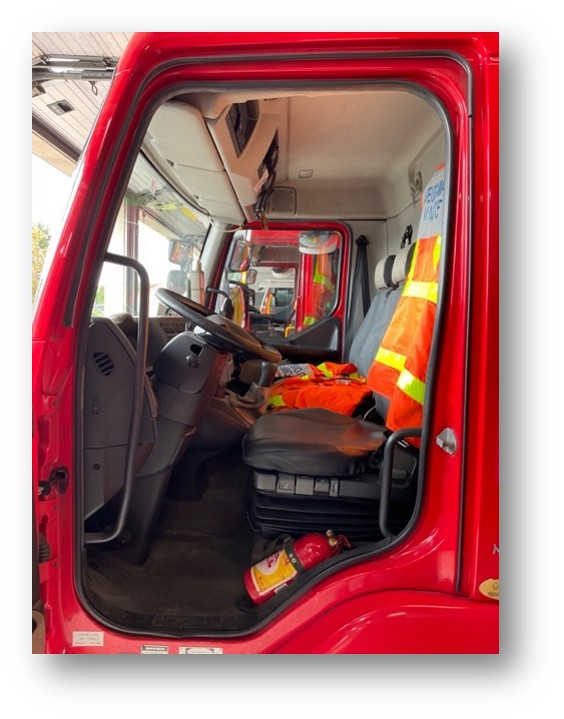
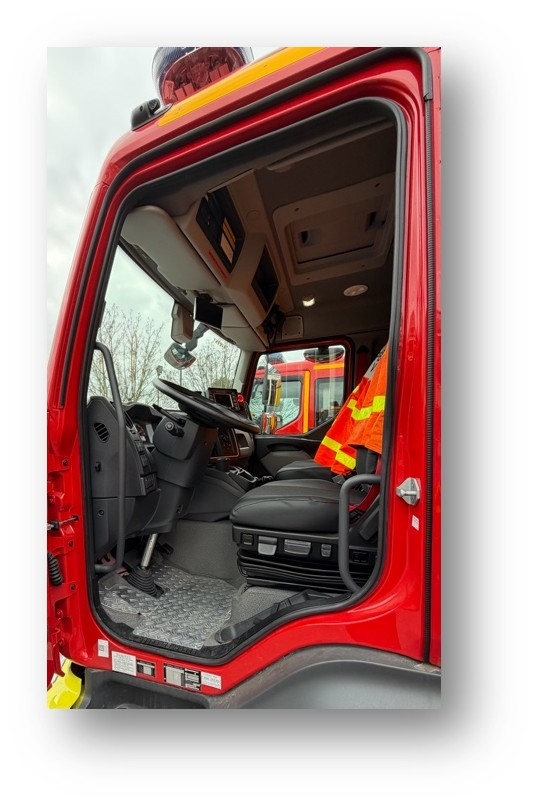
AJOUT FEUILLE VSRM

diff --git a/CAVSR.html b/CAVSR.html
@@ -135,75 +135,57 @@ footer {
 
 <fieldset>
   <legend>CABINE</legend>
-  <div class="image-container"><img src="images/Cabinevsrca.jpg" alt="Cabine VSR"></div>
+  <div class="image-container"><img src="images/VSRCA.jpg" alt="Cabine VSR"></div>
     
-  <label><input type="checkbox" id="1 TPH">1 TPH</label>
-  <label><input type="checkbox" id="1 RADIO">1 RADIO</label>
-  <label><input type="checkbox" id="1 Sacoche C/A">1 Sacoche C/A</label>
-  <label><input type="checkbox" id="1 mini lampe de poche LED">1 mini lampe de poche LED</label>
-  <label><input type="checkbox" id="1 Crochet de dépose-garniture">1 Crochet de dépose-garniture</label>
-  <label><input type="checkbox" id="1 Griffe de dépose-garniture">1 Griffe de dépose-garniture</label>
-  <label><input type="checkbox" id="1 Pince universelle">1 Pince universelle</label>
-  <label><input type="checkbox" id="1 Dégonfle-pneu">1 Dégonfle-pneu</label>
-  <label><input type="checkbox" id="1 Mètre à ruban">1 Mètre à ruban</label>
-  <label><input type="checkbox" id="1 Brise-vitre">1 Brise-vitre</label>
-  <label><input type="checkbox" id="1 Coupe ceinture">1 Coupe ceinture</label>
-  <label><input type="checkbox" id="2 Marqueurs">2 Marqueurs</label>
-  <label><input type="checkbox" id="1 Craie">1 Craie</label>
-  <label><input type="checkbox" id="Jeu d’outils">Jeu d’outils</label>
-  <label><input type="checkbox" id="1 Fiche de rappel des statuts">1 Fiche de rappel des statuts</label>
-  <label><input type="checkbox" id="1 Tablette VSR">1 Tablette VSR</label>
-  <label><input type="checkbox" id="1 Projecteur NightSearcher">1 Projecteur NightSearcher</label>
-  <label><input type="checkbox" id="1 Fiche d’aide à la signalisation d’urgence">1 Fiche d’aide à la signalisation d’urgence</label>
-  <label><input type="checkbox" id="3 GHV Secours Routier">3 GHV Secours Routier</label>
+  <label><input type="checkbox" id="3 GHV Secours Routier ">3 GHV Secours Routier </label>
   <label><input type="checkbox" id="1 Commande en sac">1 Commande en sac</label>
-  <label><input type="checkbox" id="2 Lampes de casque">2 Lampes de casque</label>
-  <label><input type="checkbox" id="1 Outil de forcement et de déblai">1 Outil de forcement et de déblai</label>
-  <label><input type="checkbox" id="1 Petite pince">1 Petite pince</label>
-  <label><input type="checkbox" id="3 Masques FFP2 + Tricoise">3 Masques FFP2 + Tricoise</label>
-  <label><input type="checkbox" id="1 Jeton de présence">1 Jeton de présence</label>
-  <label><input type="checkbox" id="1 Notice boitier « FRANCLAIR Signalisation »">1 Notice boitier « FRANCLAIR Signalisation »</label>
-  <label><input type="checkbox" id="1 Dossier avec :">1 Dossier avec :</label>
-  <label><input type="checkbox" id="Fiche caractère privée"> Fiche caractère privée</label>
-  <label><input type="checkbox" id="Avis de passage"> Avis de passage</label>
-  <label><input type="checkbox" id="Constat de dégâ"> Constat de dégât</label>
-  <label><input type="checkbox" id="Décharge"> Décharge</label>
-  <label><input type="checkbox" id="1 Rhinoevac">1 Rhinoevac</label>
-  <label><input type="checkbox" id="1 Projecteur ADALIT 5000">1 Projecteur ADALIT 5000</label>
-</fieldset>
+  <label><input type="checkbox" id="3 Lampes de casque">3 Lampes de casque</label>
+  <label><input type="checkbox" id="1 Outil de forcement et de déblai (OFD)">1 Outil de forcement et de déblai (OFD) </label>
+  <label><input type="checkbox" id="1 Petite pince ">1 Petite pince </label>
+  <label><input type="checkbox" id="Masques FFP2 + tricoise ">Masques FFP2 + tricoise </label>
+  <label><input type="checkbox" id="1 Jeton de présence ">1 Jeton de présence </label>
+  <label><input type="checkbox" id="1 Dossier avec : Fiche caractère privée / Avis de passage / Constat de dégât / Décharge">1 Dossier avec : Fiche caractère privée / Avis de passage / Constat de dégât / Décharge</label>
+  <label><input type="checkbox" id="2 Projecteurs ADALIT 5000 Jaune">2 Projecteurs ADALIT 5000 Jaune</label>
+  <label><input type="checkbox" id="3 Casques F2 (1 jaune et 2 rouges) ">3 Casques F2 (1 jaune et 2 rouges) </label>
+  <label><input type="checkbox" id="1 TPH900 + harnais ">1 TPH900 + harnais </label>
+  <label><input type="checkbox" id="1 BER ">1 BER </label>
+  <label><input type="checkbox" id="1 Fiche de rappel des statuts">1 Fiche de rappel des statuts</label>
+  <label><input type="checkbox" id="1 Tablette VSR ">1 Tablette VSR </label>
+  <label><input type="checkbox" id="1 Fiche d’aide à la signalisation d’urgence">1 Fiche d’aide à la signalisation d’urgence</label>
+  </fieldset>
 
 <fieldset>
   <legend>COFFRE AVANT DROIT</legend>
   <div class="image-container"><img src="images/CoffreavdVSR.jpg" alt="Coffre AV droit"></div>
-  <label><input type="checkbox" id="2 Cales escalier (BXC1)">2 Cales escalier (BXC1)</label>
-  <label><input type="checkbox" id="2 Cales tiroir avec cordelette (BXC4)">2 Cales tiroir avec cordelette (BXC4)</label>
-  <label><input type="checkbox" id="1 Pioche et son manche">1 Pioche et son manche</label>
-  <label><input type="checkbox" id="1 Masse">1 Masse</label>
-  <label><input type="checkbox" id="2 Balais de cantonnier">2 Balais de cantonnier</label>
-  <label><input type="checkbox" id="1 Pelle">1 Pelle</label>
-  <label><input type="checkbox" id="1 Grande pince">1 Grande pince</label>
-  <label><input type="checkbox" id="1 Coupe boulon">1 Coupe boulon</label>
-  <label><input type="checkbox" id="1 Haligan TOOL">1 Haligan TOOL</label>
-  <label><input type="checkbox" id="1 Plateforme PL">1 Plateforme PL</label>
-  <label><input type="checkbox" id="1 Caisse N°11 avec :">1 Caisse N°11 avec :</label>
-  <label><input type="checkbox" id="8 Cales Coin"> 8 Cales Coin</label>
-  <label><input type="checkbox" id="6 Cales carré"> 6 Cales carré</label>
-  <label><input type="checkbox" id="1 Coupe pare-brise manuel">1 Coupe pare-brise manuel</label>
-  <label><input type="checkbox" id="1 Batterie supplémentaire pour outil électroportatif">1 Batterie supplémentaire pour outil électroportatif</label>
-  <label><input type="checkbox" id="1 Écarteur électroportatif + batterie">1 Écarteur électroportatif + batterie</label>
-  <label><input type="checkbox" id="1 Cisaille électroportatif">1 Cisaille électroportatif</label>
-  <label><input type="checkbox" id="1 Valise avec boulonneuse portative + accessoires">1 Valise avec boulonneuse portative + accessoires</label>
-  <label><input type="checkbox" id="1 Valise Orange avec 2 étais à cliquet + 1 couteau coupe tôle HOLMATRO">1 Valise Orange avec 2 étais à cliquet + 1 couteau coupe tôle HOLMATRO</label>
-  <label><input type="checkbox" id="1 Chariot de transport">1 Chariot de transport</label>
-  <label><input type="checkbox" id="1 Sacoche avec 2 boucliers + 1 Couverture de désincarcération">1 Sacoche avec 2 boucliers + 1 Couverture de désincarcération</label>
+  <fieldset>
+		<legend>CHARRIOT AMOVIBLE</legend>
+		<label><input type="checkbox" id="1 Vérin électroportatif 117cm + batterie">1 Vérin électroportatif 117cm + batterie</label>
+		<label><input type="checkbox" id="1 Vérin électroportatif 91cm + batterie">1 Vérin électroportatif 91cm + batterie</label>
+		<label><input type="checkbox" id="2 Supports appui-vérins (Sabots)">2 Supports appui-vérins (Sabots)</label>
+		<label><input type="checkbox" id="1 Écarteur électroportatif + batterie">1 Écarteur électroportatif + batterie</label>
+		<label><input type="checkbox" id="1 Cisaille électroportatif + batterie">1 Cisaille électroportatif + batterie</label>
+		<label><input type="checkbox" id="1 Coupe pare-brise manuel">1 Coupe pare-brise manuel</label>
+		<label><input type="checkbox" id="2 Cales CROSS RAMING">2 Cales CROSS RAMING</label>
+		<label><input type="checkbox" id="2 boites d’outils">2 boites d’outils</label>
+    </fieldset>
+	<label><input type="checkbox" id="Valise BEMAEX : 1 protection airbag PL / 1 Protection airbag VL / 2 Craies / 2 Sangles ROPE RATCHET / 1 Rouleau de rubalise">Valise BEMAEX : 1 protection airbag PL / 1 Protection airbag VL / 2 Craies / 2 Sangles ROPE RATCHET / 1 Rouleau de rubalise</label>
+	<label><input type="checkbox" id="Caisse n°13 : 3 visières casque F2 + 1 Sacoche C/A (1 mini lampe de poche LED/ 1 Crochet de dépose-garniture / 1 Griffe de dépose-garniture / 1 Pince universelle / 1 Dégonfle-pneu / 1 Mètre à ruban / 1 Brise-vitre / 1 Coupe ceinture / 2 Marqueur / 1 Craie / Jeu outils)">Caisse n°13 : 3 visières casque F2 + 1 Sacoche C/A (1 mini lampe de poche LED/ 1 Crochet de dépose-garniture / 1 Griffe de dépose-garniture / 1 Pince universelle / 1 Dégonfle-pneu / 1 Mètre à ruban / 1 Brise-vitre / 1 Coupe ceinture / 2 Marqueur / 1 Craie / Jeu outils)</label>
+	<label><input type="checkbox" id="Caisse n°14 : 1 Sac protections de découpe rouge BEMAEX + protections bouts de tuyaux">Caisse n°14 : 1 Sac protections de découpe rouge BEMAEX + protections bouts de tuyaux</label>
+	<label><input type="checkbox" id="Caisse n°15 : 1 Sacoche avec 2 boucliers + 1 Couverture de désincarcération">Caisse n°15 : 1 Sacoche avec 2 boucliers + 1 Couverture de désincarcération</label>
+	<label><input type="checkbox" id="1 Projecteur Adalit 5000 noir">1 Projecteur Adalit 5000 noir</label>
 </fieldset>
 
 <fieldset>
-  <legend>COFFRE AVANT GAUCHE</legend>
-  <div class="image-container"><img src="images/CoffreavgVSR.jpg" alt="Coffre AV gauche"></div>
-  <label><input type="checkbox" id="1 Vérin électroportatif 117cm + batterie">1 Vérin électroportatif 117cm + batterie</label>
-  <label><input type="checkbox" id="1 Vérin électroportatif 91cm + batterie">1 Vérin électroportatif 91cm + batterie</label>
-  <label><input type="checkbox" id="2 support appui-vérins (sabots)">2 support appui-vérins (sabots)</label>
+  <legend>COFFRE MILIEU DROIT</legend>
+  <div class="image-container"><img src="images/coffremilieudroitVSR.jpg" alt="Coffre milieu droit "></div>
+  <label><input type="checkbox" id="1 Haligan TOOL">1 Haligan TOOL</label>
+<label><input type="checkbox" id="1 Masse">1 Masse</label>
+<label><input type="checkbox" id="1 Valise Orange avec 2 étais à cliquet + 1 couteau coupe tôle HOLMATRO">1 Valise Orange avec 2 étais à cliquet + 1 couteau coupe tôle HOLMATRO</label>
+<label><input type="checkbox" id="2 Cales escalier (BXC1)">2 Cales escalier (BXC1)</label>
+<label><input type="checkbox" id="2 Cales tiroir avec cordelette (BXC4)">2 Cales tiroir avec cordelette (BXC4)</label>
+<label><input type="checkbox" id="1 Caisse n°12 : 8 Cales Coin / 6 Cales carré">1 Caisse n°12 : 8 Cales Coin / 6 Cales carré</label>
+<label><input type="checkbox" id="Caisse n°11 : Jeu de bastings">Caisse n°11 : Jeu de bastings</label>
+<label><input type="checkbox" id="2 Supports projecteurs">2 Supports projecteurs</label>
 </fieldset>
 
 

diff --git a/COVSR.html b/COVSR.html
@@ -203,46 +203,59 @@ footer {
   <fieldset>
   <legend>CABINE</legend>
   <img src="images/CabineCOVSR.jpg" />
-  <label><input type="checkbox" id="1 Extincteur poudre 2KG">1 Extincteur poudre 2KG</label>
-  <label><input type="checkbox" id="1 Pochette Bleue avec : Constat amiable / Carte grise / Carte d’assurance">1 Pochette Bleue avec : Constat amiable / Carte grise / Carte d’assurance</label>
-  <label><input type="checkbox" id="Lot démonte roue (Côté CA)">Lot démonte roue (Côté CA)</label>
+    <label><input type="checkbox" id="1 Pochette Bleue avec : Constat amiable / Carte grise / Carte d’assurance">1 Pochette Bleue avec : Constat amiable / Carte grise / Carte d’assurance</label>
+  <label><input type="checkbox" id="1 Projecteur amovible ">1 Projecteur amovible </label>
 </fieldset>
+
+<fieldset>
+  <legend>COFFRE AVANT GAUCHE</legend>
+  <img src="images/CoffreavdGVSR.jpg" />
+  <label><input type="checkbox" id="2 Cales de roues">2 Cales de roues</label>
+  <label><input type="checkbox" id="1 Valise scie sabre + Lames de rechange + Masques FFP2 + 2 Batteries">1 Valise scie sabre + Lames de rechange + Masques FFP2 + 2 Batteries</label>
+  <label><input type="checkbox" id="1 Valise avec boulonneuse portative + accessoires  ">1 Valise avec boulonneuse portative + accessoires  </label>
+  <label><input type="checkbox" id="2 Chargeur MILWAUKEE + 1 batterie ">2 Chargeur MILWAUKEE + 1 batterie </label>
+  <label><input type="checkbox" id="1 Chargeur MAKITA ">1 Chargeur MAKITA </label>
+ </fieldset>
+
+<fieldset>
+  <legend>COFFRE MILIEUX GAUCHE</legend>
+  <img src="images/CoffremilieuxGVSR.jpg" />
+ <label><input type="checkbox" id="2 ARI complet + 2 Masques ARI + 2 Cagoules">2 ARI complet + 2 Masques ARI + 2 Cagoules</label>
+<label><input type="checkbox" id="2 Bouteilles ARI de réserve">2 Bouteilles ARI de réserve</label>
+<label><input type="checkbox" id="1 Échelle télescopique">1 Échelle télescopique</label>
+<label><input type="checkbox" id="Caisse n°3 : Chaine colonne de direction">Caisse n°3 : Chaine colonne de direction</label>
+<label><input type="checkbox" id="Caisse n°4 : 1 cric / 1 lot démonte roue + levage cabine / 1 manomètre + flexible">Caisse n°4 : 1 cric / 1 lot démonte roue + levage cabine / 1 manomètre + flexible</label>
+<label><input type="checkbox" id="Caisse n°5 : Kit désinfection incendie + bouteilles d’eau">Caisse n°5 : Kit désinfection incendie + bouteilles d’eau</label>
+<label><input type="checkbox" id="Caisse n°6 : Jeu de bastings">Caisse n°6 : Jeu de bastings</label>
+<label><input type="checkbox" id="Caisse n°7 : Jeu de bastings + massette">Caisse n°7 : Jeu de bastings + massette</label>
+<label><input type="checkbox" id="8 Rallonges 220V/2000W sur touret de 25m">8 Rallonges 220V/2000W sur touret de 25m</label>
+<label><input type="checkbox" id="2 Étais">2 Étais</label>
+<label><input type="checkbox" id="2 Fiches d’ancrage">2 Fiches d’ancrage</label>
+<label><input type="checkbox" id="1 Support projecteur Baby">1 Support projecteur Baby</label> </fieldset>
 
 <fieldset>
   <legend>COFFRE ARRIERE GAUCHE</legend>
-  <img src="images/CoffreargVSR.jpg" />
-  <label><input type="checkbox" id="2 Cales de roues">2 Cales de roues</label>
-  <label><input type="checkbox" id="1 Lot de chaînes à neige">1 Lot de chaînes à neige</label>
-  <label><input type="checkbox" id="1 Cric">1 Cric</label>
-  <label><input type="checkbox" id="1 Caisse N°5 avec : 1 TIRFOR TU16 / 1 Poulie / 1 Levier de manœuvre / 6 Manilles / 1 Câble de 15m / 3 Élingues textiles 4T">1 Caisse N°5 avec : 1 TIRFOR TU16 / 1 Poulie / 1 Levier de manœuvre / 6 Manilles / 1 Câble de 15m / 3 Élingues textiles 4T</label>
-  <label><input type="checkbox" id="2 ARI 300b">2 ARI 300b</label>
-  <label><input type="checkbox" id="2 Masques ARI + 2 Cagoules">2 Masques ARI + 2 Cagoules</label>
-  <label><input type="checkbox" id="2 Bouteilles ARI de réserve">2 Bouteilles ARI de réserve</label>
+  <img src="images/CoffreardGVSR.jpg" />
   <label><input type="checkbox" id="6 Extincteurs poudre de 9kg">6 Extincteurs poudre de 9kg</label>
-  <label><input type="checkbox" id="Bouteille d’eau">Bouteille d’eau</label>
-  <label><input type="checkbox" id="1 Sac PS">1 Sac PS</label>
-  <label><input type="checkbox" id="1 Caisse N°3 avec : 1 Couverture anti-feu / 1 Paire de gants isolants électriques / 2 Sangles à cliquet PL">1 Caisse N°3 avec : 1 Couverture anti-feu / 1 Paire de gants isolants électriques / 2 Sangles à cliquet PL</label>
-  <label><input type="checkbox" id="1 Caisse N°4 avec : 1 Clé de poteau / 1 Tuyau Ø45/20m / 1 Tricoise / 1 Raccord de réduction 65/40">1 Caisse N°4 avec : 1 Clé de poteau / 1 Tuyau Ø45/20m / 1 Tricoise / 1 Raccord de réduction 65/40</label>
-</fieldset>
-
-<fieldset>
-  <legend>COFFRE ARRIERE DROIT</legend>
-  <img src="images/CoffreardVSR.jpg" />
-  <label><input type="checkbox" id="1 Valise scie sabre + Lames de rechange + Masques FFP2 + 2 Batteries">1 Valise scie sabre + Lames de rechange + Masques FFP2 + 2 Batteries</label>
-  <label><input type="checkbox" id="1 Caisse N°6 avec : Cales en bois / 1 Massette">1 Caisse N°6 avec : Cales en bois / 1 Massette</label>
-  <label><input type="checkbox" id="1 Enrouleur câble de terre">1 Enrouleur câble de terre</label>
-  <label><input type="checkbox" id="1 Piquet de terre">1 Piquet de terre</label>
-  <label><input type="checkbox" id="Clé armoire génératrice">Clé armoire génératrice</label>
-  <label><input type="checkbox" id="1 Projecteur Baby">1 Projecteur Baby</label>
-  <label><input type="checkbox" id="1 Sacoche avec 3 visières pour casque F2">1 Sacoche avec 3 visières pour casque F2</label>
-  <label><input type="checkbox" id="1 Caisse N°8 avec : 2 Doubles projecteurs / 3 Casques F2">1 Caisse N°8 avec : 2 Doubles projecteurs / 3 Casques F2</label>
-  <label><input type="checkbox" id="2 Supports de projecteur">2 Supports de projecteur</label>
-  <label><input type="checkbox" id="1 Valise rouge avec : 1 protection airbag PL / 1 protection airbag VL / 2 Craies / 2 Sangles ROPE RATCHET / 1 Rouleau de rubalise">1 Valise rouge avec : 1 protection airbag PL / 1 protection airbag VL / 2 Craies / 2 Sangles ROPE RATCHET / 1 Rouleau de rubalise</label>
-  <label><input type="checkbox" id="8 Rallonges 220V/2000W sur touret de 25m">8 Rallonges 220V/2000W sur touret de 25m</label>
-  <label><input type="checkbox" id="1 Caisse N°9 avec : Cales en bois / 1 Massette">1 Caisse N°9 avec : Cales en bois / 1 Massette</label>
-  <label><input type="checkbox" id="2 Cales CROSS RAMING">2 Cales CROSS RAMING</label>
-</fieldset>
-
+  <label><input type="checkbox" id="1 Plateforme PL ">1 Plateforme PL </label>
+  <label><input type="checkbox" id="1 Projecteur amovible + trépied ">1 Projecteur amovible + trépied </label>
+ </fieldset>
+ 
+ <fieldset>
+  <legend>ARRIERE</legend>
+  <img src="images/arriereVSR.jpg" />
+  <label><input type="checkbox" id="2 Chariots avec chacun 6 cônes de LUBEC et 1 Tri flash ">2 Chariots avec chacun 6 cônes de LUBEC et 1 Tri flash </label>
+ </fieldset>
+ 
+ <fieldset>
+  <legend>COFFRE MILIEU DROIT</legend>
+  <img src="images/CoffremilieuxDVSR.jpg" />
+  <label><input type="checkbox" id="1 Piquet de terre + enrouleur">1 Piquet de terre + enrouleur</label>
+  <label><input type="checkbox" id="Clé armoire génératrice">Clé armoire génératrice </label>
+  <label><input type="checkbox" id="1 Projecteur Baby  ">1 Projecteur Baby  </label>
+  <label><input type="checkbox" id="1 Massette ">1 Massette </label>
+  <label><input type="checkbox" id="2 Couverture anti-feu  ">2 Couverture anti-feu  </label>
+ </fieldset>
 
 <div class="buttons">
   <button onclick="saveAndReturn()">Enregistrer et revenir au menu</button>

diff --git a/EQVSR.html b/EQVSR.html
@@ -137,31 +137,46 @@ footer {
 
 <fieldset>
   <legend>COFFRE AVANT GAUCHE</legend>
-  <div class="image-container"><img src="images/CoffreavgVSR.jpg" alt="Coffre avant gauche"></div>
-  <label><input type="checkbox" id="1 Caisse N°10 avec : 1 Cordage">1 Caisse N°10 avec : 1 Cordage</label>
-  <label><input type="checkbox" id="1 Échelle télescopique">1 Échelle télescopique</label>
-  <label><input type="checkbox" id="1 Sac protections de découpe rouge BEMAEX + protections bouts de tuyaux">1 Sac protections de découpe rouge BEMAEX + protections bouts de tuyaux</label>
-  <label><input type="checkbox" id="1 Kit chaîne pour colonne de direction">1 Kit chaîne pour colonne de direction</label>
-  <label><input type="checkbox" id="1 LSPCC (Vérification le samedi du contenu)">1 LSPCC (Vérification le samedi du contenu)</label>
-  <label><input type="checkbox" id="1 Caisse N°1 Lot de levage avec : 2 flexibles rouge et bleu de 10 m / 2 flexibles rouge et bleu de 2 m avec robinet / 1 Plaque Power Plate">1 Caisse N°1 Lot de levage avec : 2 flexibles rouge et bleu de 10 m / 2 flexibles rouge et bleu de 2 m avec robinet / 1 Plaque Power Plate</label>
-  <label><input type="checkbox" id="1 Caisse N°2 avec : 2 Rouleaux de rubalise / 1 régulateur de pression / 1 Contrôleur double / 1 clé / 1 prise fixation plaque Power Plate / 1 connecteur coussin / 1 Brosse">1 Caisse N°2 avec : 2 Rouleaux de rubalise / 1 régulateur de pression / 1 Contrôleur double / 1 clé / 1 prise fixation plaque Power Plate / 1 connecteur coussin / 1 Brosse</label>
-  <label><input type="checkbox" id="2 Cousins de levage + housses de transport">2 Cousins de levage + housses de transport</label>
-  <label><input type="checkbox" id="1 Plaque de protection en kevlar">1 Plaque de protection en kevlar</label>
-  <label><input type="checkbox" id="1 Caisse à outils plombée avec : Clés mixtes, Clés plates, Cutter, Clé à molette, Pinces, Cisaille, Massette, Burin, Scie à métaux, Tournevis, boîte à cliquets complète">1 Caisse à outils plombée avec : Clés mixtes, Clés plates, Cutter, Clé à molette, Pinces, Cisaille, Massette, Burin, Scie à métaux, Tournevis, boîte à cliquets complète</label>
+  <div class="image-container"><img src="images/CoffreavdGVSR.jpg" alt="Coffre avant gauche"></div>
+  <label><input type="checkbox" id="1 LSPCC (Vérification le samedi du contenue)">1 LSPCC (Vérification le samedi du contenue)</label>
+<label><input type="checkbox" id="1 Caisse N°1 : 1 Paires de gants isolant électrique / 2 Sangles à cliquet PL / 1 rouleau de rubalise / 2 sangles échelle / 1 serpillière">1 Caisse N°1 : 1 Paires de gants isolant électrique / 2 Sangles à cliquet PL / 1 rouleau de rubalise / 2 sangles échelle / 1 serpillière</label>
+<label><input type="checkbox" id="1 Caisse N°2 : 2 Flexibles rouge et bleu de 10 m / 2 flexibles rouge et bleu de 2m avec robinet /1 Plaque Power Plate / 1 régulateur de pression / 1 Contrôleur double / 1 clé / 1 prise fixation plaque Power Plate / 1 connecteur coussin / 1 Brosse">1 Caisse N°2 : 2 Flexibles rouge et bleu de 10 m / 2 flexibles rouge et bleu de 2m avec robinet /1 Plaque Power Plate / 1 régulateur de pression / 1 Contrôleur double / 1 clé / 1 prise fixation plaque Power Plate / 1 connecteur coussin / 1 Brosse</label>
+<label><input type="checkbox" id="2 Cousins de levage + housses de transport">2 Cousins de levage + housses de transport</label>
+<label><input type="checkbox" id="1 Plaque de protection en kevlar">1 Plaque de protection en kevlar</label>
+<label><input type="checkbox" id="1 Caisse à outils plombée : Clés mixtes (8, 9, 10, 11, 12, 13, 14, 15, 17, 19) / Clés plates (12/13, 14/15, 18/19, 22/24, 24/27) / 1 Cutter et 2 Lames / 1 Clé à molette 8’’ / 1 Pince multiprise petit modèle / 1 pince multiprise grand modèle / 1 Cisaille / 1 Massette / 1 Burin ciseau / 1 Scie à métaux + 1 lame / 1 Pince à bec / 1 Tournevis plats / 2 Tournevis cruciforme / 1 boite à cliquets complète">1 Caisse à outils plombée : Clés mixtes (8, 9, 10, 11, 12, 13, 14, 15, 17, 19) / Clés plates (12/13, 14/15, 18/19, 22/24, 24/27) / 1 Cutter et 2 Lames / 1 Clé à molette 8’’ / 1 Pince multiprise petit modèle / 1 pince multiprise grand modèle / 1 Cisaille / 1 Massette / 1 Burin ciseau / 1 Scie à métaux + 1 lame / 1 Pince à bec / 1 Tournevis plats / 2 Tournevis cruciforme / 1 boite à cliquets complète</label></fieldset>
+
+<fieldset>
+  <legend>COFFRE ARRIERE GAUCHE</legend>
+  <div class="image-container"><img src="images/CoffreardGVSR.jpg" alt="Coffre arrière"></div>
+<label><input type="checkbox" id="1 Caisse : 1 TIRFOR TU16 / 1 Poulie / 1 Levier de manœuvre / 6 Manilles / 1 Câbles de 15m / 3 Élingues textiles 4T">1 Caisse : 1 TIRFOR TU16 / 1 Poulie / 1 Levier de manœuvre / 6 Manilles / 1 Câbles de 15m / 3 Élingues textiles 4T</label>
+<label><input type="checkbox" id="1 Chariot de transport">1 Chariot de transport</label>
+<label><input type="checkbox" id="Caisse n°9 : Cordage">Caisse n°9 : Cordage</label>
 </fieldset>
 
 <fieldset>
-  <legend>COFFRE ARRIERE</legend>
-  <div class="image-container"><img src="images/CoffrearrVSR.jpg" alt="Coffre arrière"></div>
-  <label><input type="checkbox" id="2 Chariots avec chacun 6 cônes de LUBEC et 1 Tri flash">2 Chariots avec chacun 6 cônes de LUBEC et 1 Tri flash</label>
-  <label><input type="checkbox" id="2 Bastings">2 Bastings</label>
-  <label><input type="checkbox" id="2 Étais">2 Étais</label>
-  <label><input type="checkbox" id="2 Fiches d’ancrages">2 Fiches d’ancrages</label>
-  <label><input type="checkbox" id="1 Projecteur amovible">1 Projecteur amovible</label>
-  <label><input type="checkbox" id="6 Cônes de LUBEC">6 Cônes de LUBEC</label>
-  <label><input type="checkbox" id="1 Trépied pour projecteur Baby">1 Trépied pour projecteur Baby</label>
-  <label><input type="checkbox" id="6 Balises lumineuses Bleu">6 Balises lumineuses Bleu</label>
-</fieldset>
+  <legend>COFFRE ARRIERE DROIT</legend>
+  <div class="image-container"><img src="images/coffreardDVSR.jpg" alt="Coffre arrière"></div>
+<label><input type="checkbox" id="6 Cônes de LUBEC">6 Cônes de LUBEC</label>
+<label><input type="checkbox" id="6 Balises lumineuses Bleu">6 Balises lumineuses Bleu</label>
+<label><input type="checkbox" id="1 Sceau d’absorbant">1 Sceau d’absorbant</label>
+<label><input type="checkbox" id="1 Triflash">1 Triflash</label>
+<label><input type="checkbox" id="Caisse n°10 : 2 projecteurs">Caisse n°10 : 2 projecteurs</label></fieldset>
+
+<fieldset>
+  <legend>COFFRE AVANT DROIT</legend>
+  <div class="image-container"><img src="images/CoffreavdVSR.jpg" alt="Coffre avant droit "></div>
+<label><input type="checkbox" id="1 Pioche et son manche">1 Pioche et son manche</label>
+<label><input type="checkbox" id="2 Balais de cantonnier">2 Balais de cantonnier</label>
+<label><input type="checkbox" id="1 Pelle">1 Pelle</label>
+<label><input type="checkbox" id="1 Petite pince">1 Petite pince</label>
+<label><input type="checkbox" id="1 Grande pince">1 Grande pince</label>
+<label><input type="checkbox" id="1 Coupe boulon grand">1 Coupe boulon grand</label>
+<label><input type="checkbox" id="1 Coupe boulon petit">1 Coupe boulon petit</label>
+<label><input type="checkbox" id="1 Scie à métaux">1 Scie à métaux</label>
+<label><input type="checkbox" id="1 Scie à buche">1 Scie à buche</label>
+<label><input type="checkbox" id="1 Hachette">1 Hachette</label>
+<label><input type="checkbox" id="1 Jeu de bastings">1 Jeu de bastings</label>
+<label><input type="checkbox" id="1 Sac PS">1 Sac PS </label></fieldset>
 
 <div class="buttons">
   <button onclick="saveAndReturn()">Enregistrer et revenir au menu</button>

diff --git a/index.html b/index.html
@@ -124,7 +124,7 @@ document.getElementById('date').textContent = new Date().toLocaleDateString('fr-
 <table>
 <thead><tr><th>Section</th><th>Détails</th></tr></thead>
 <tbody>
-<tr><td>Version</td><td>2.1 – Mars 2026</td></tr>
+<tr><td>Version</td><td>2.2 – Mars 2026</td></tr>
 <tr><td>Usage</td><td>Vérification quotidienne des véhicules et postes</td></tr>
 <tr><td>Contact</td><td>CIS Taverny – SGT COLIN Louis et Bureau OPS</td></tr>
 </tbody>

diff --git a/FPT.html b/FPT.html
@@ -77,7 +77,7 @@ button i { font-size:1.8rem; }
 .CBAT { background:#9933FF; }   /* Chef */
 .EBAT { background:#FFC000; color:#333; } /* Equipier */
 .CBAL { background:#FCD5B4; }   /* Chef */
-.EBATL { background:##FFFF00; color:#333; } /* Equipier */
+.EBAL { background:##FFFF00; color:#333; } /* Equipier */
 
 /* ===== FOOTER ===== */
 footer { text-align:center; padding:1rem; font-size:0.85rem; color:#5D4037; border-top:1px solid #E0E0E0; }

diff --git a/COFPT.html b/COFPT.html
@@ -171,7 +171,7 @@ footer {
 <fieldset>
   <legend>COFFRE ARRIÈRE GAUCHE</legend>
   <div class="image-container">
-    <img src="images/coffrearrieregauche.jpg" alt="Coffre arriere gauche">
+    <img src="images/Coffrearrieregauche.jpg" alt="Coffre arriere gauche">
   </div>
   <label><input type="checkbox" id="1 Clé de barrage">1 Clé de barrage</label>
   <label><input type="checkbox" id="3 Tricoises">3 Tricoises</label>
